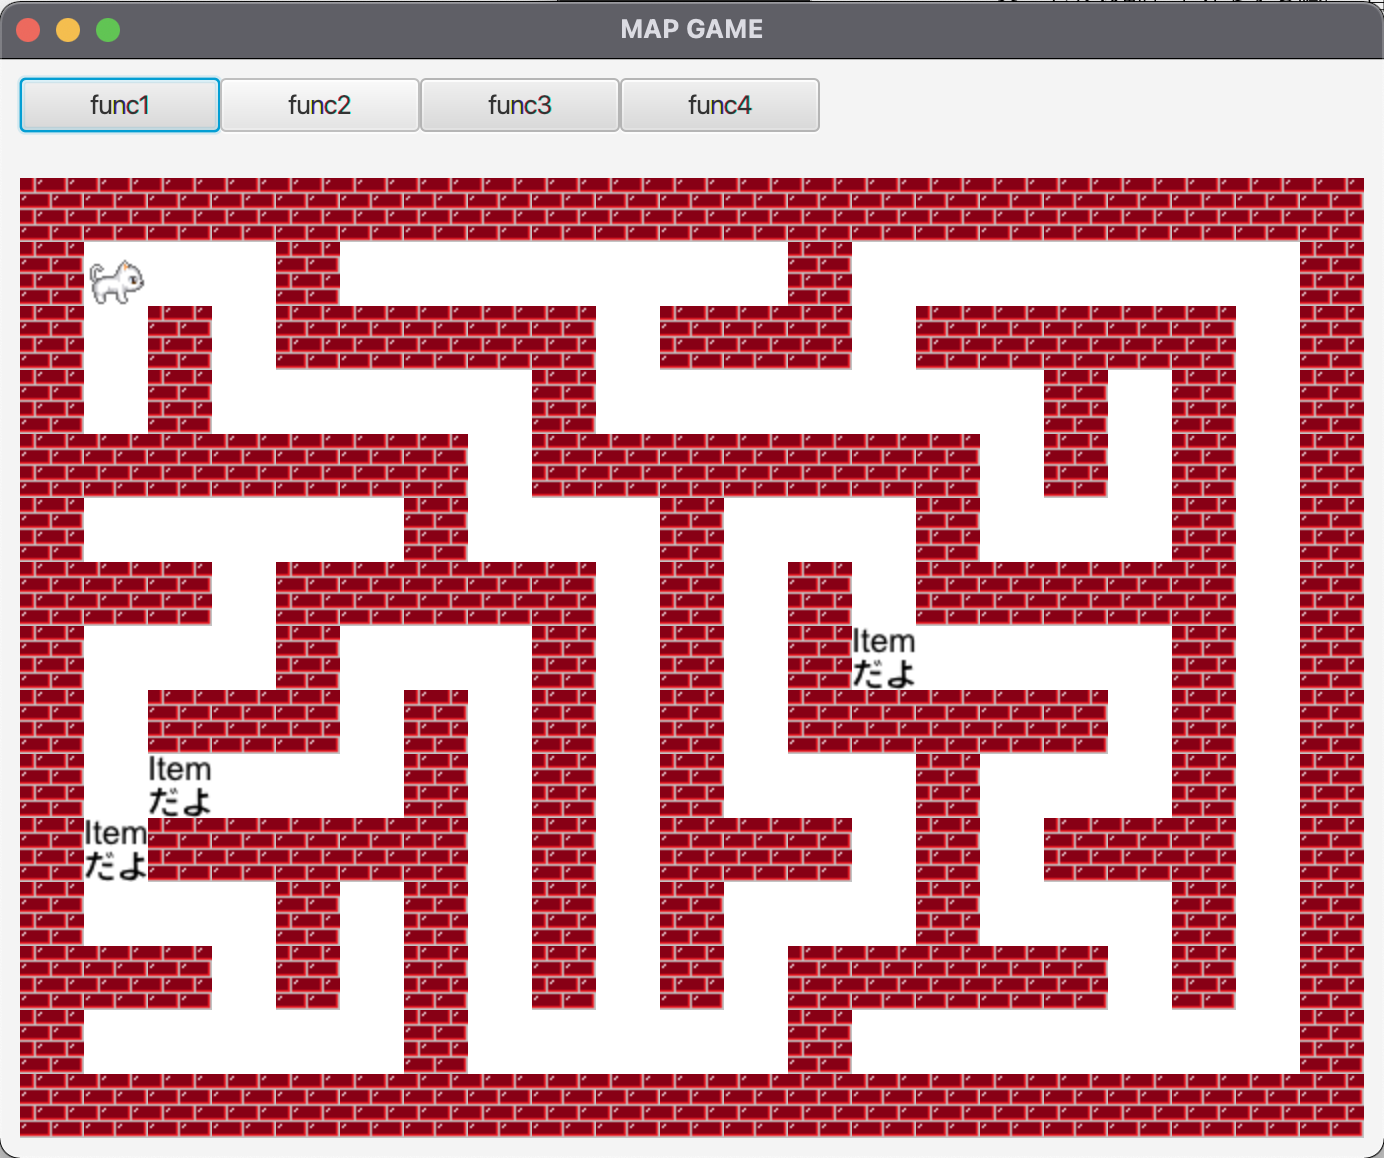
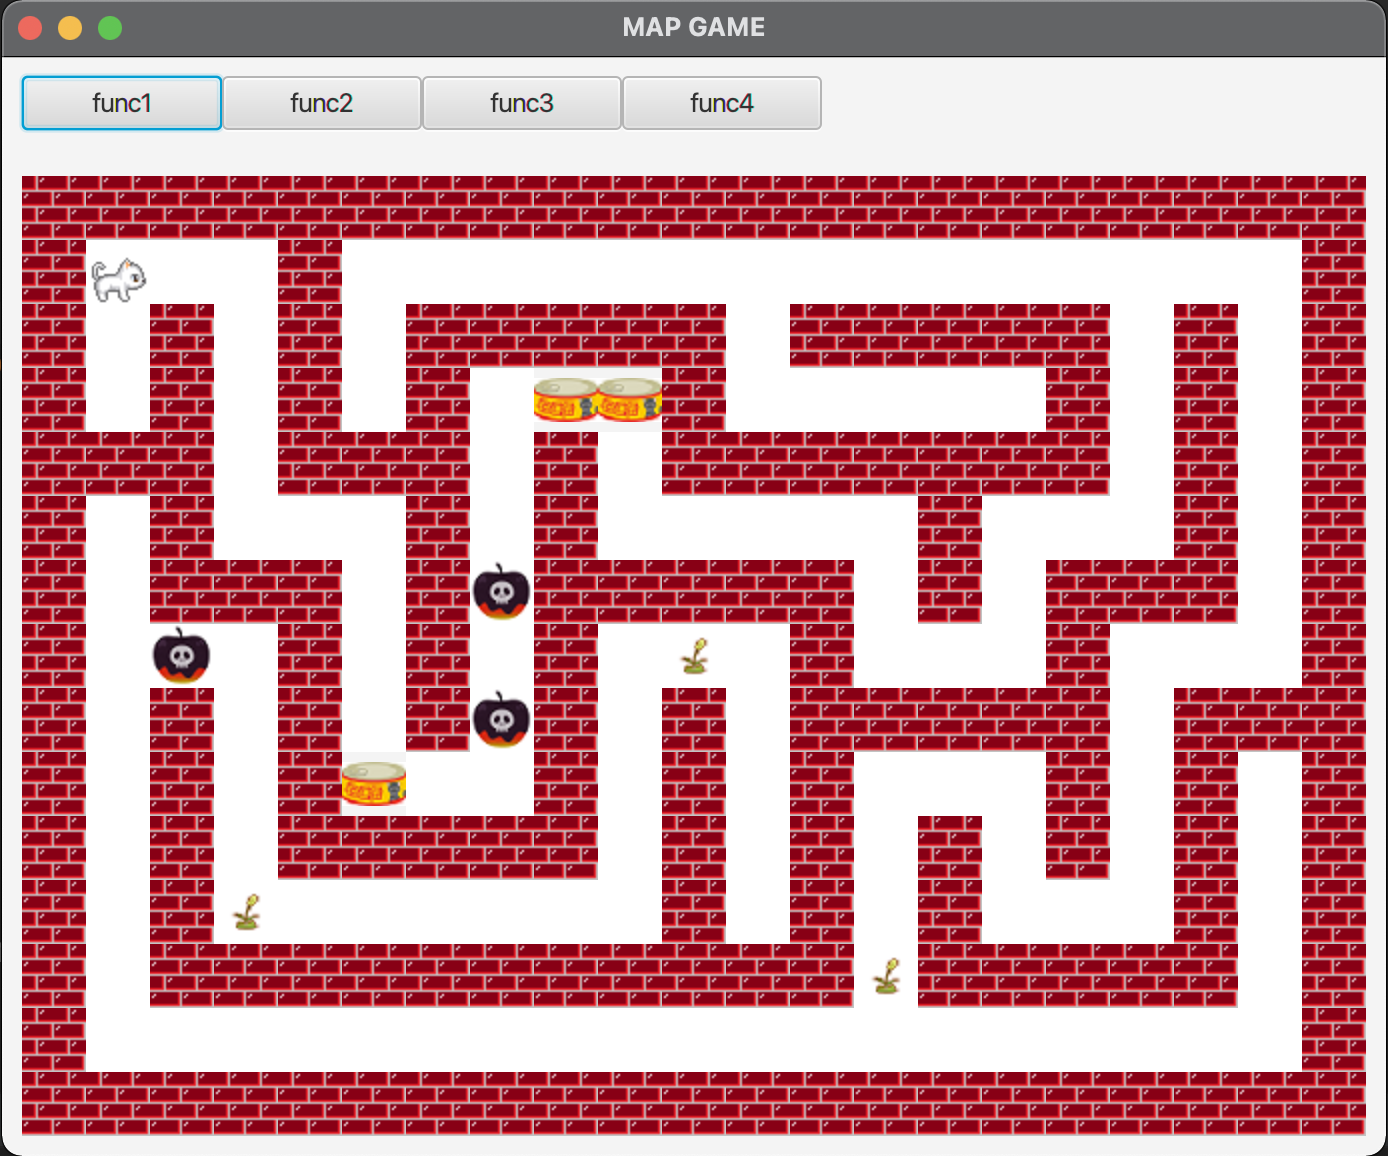
First submission (required feature 3)

diff --git a/src/MapData.java b/src/MapData.java
@@ -13,6 +13,7 @@ public class MapData {
     public static final int TYPE_ITEM_CATFOOD = 4;
 
     public static final int TYPE_GOAL = 5;
+    static int numItems;
     //---END EDIT
 
     private static final String mapImageFiles[] = {
@@ -33,8 +34,6 @@ public class MapData {
     private int width;
     private int height;
 
-    private int numItems;
-
     MapData(int x, int y){
         mapImages = new Image[mapImageFiles.length]; // This array's length should be the same with mapImageFiles's
         mapImageViews = new ImageView[y][x];
@@ -49,7 +48,8 @@ public class MapData {
         fillMap(MapData.TYPE_WALL);
         digMap(1, 3);
         //placeItem(3);
-        setItem();
+        setItem(1);
+        setGoal();
         setImageViews();
     }
 
@@ -118,7 +118,7 @@ public class MapData {
             dl[r] = tmp;
         }
 
-        System.out.println(dl[0][0] + " " + dl[0][1]);
+        //System.out.println(dl[0][0] + " " + dl[0][1]);
 
         for (int i=0; i<dl.length; i++){
             int dx = dl[i][0];
@@ -149,27 +149,28 @@ public class MapData {
 //    }
 
 
-    public void setItem() {
+    public void setItem(int num) {
         int count = 0;
-        for (int i = 2; i < 4; i++) {
-            while (count < 3) {
+        for (int i = TYPE_ITEM_APPLE; i <= TYPE_ITEM_CATFOOD; i++) {
+            while (count < num) {
                 int j = (int) (Math.random() * getHeight());
                 int z = (int) (Math.random() * getWidth());
-                if (getMap(j, z) == 0 && getMap(j, z) != 2 && getMap(j, z) != 3) {
+                if (getMap(j, z) == TYPE_SPACE && j != 1 && z != 1) {
                     setMap(j, z, i);
                     count++;
                 }
             }
             count=0;
         }
-        while (true) {
-            int j = (int) (Math.random() * getHeight());
-            int z = (int) (Math.random() * getWidth());
-            if (getMap(j, z) == TYPE_SPACE) {
-                setMap(j, z, 4);
-                break;
-            }
-        }
+        numItems = num*3;
+    }
+
+    public static void setNumItems(int numItems) {
+        MapData.numItems = numItems;
+    }
+
+    public void setGoal() {
+        setMap(19, 13, TYPE_GOAL);
     }
     //--- END EDIT
 }

diff --git a/src/MapGameController.java b/src/MapGameController.java
@@ -120,27 +120,35 @@ public class MapGameController implements Initializable {
     //--- BEGIN EDIT
     // item collection & goal logic
     void tileCheck(int x, int y) {
+        //System.out.println(mapData.getNumItems());
 
         switch(mapData.getMap(x, y)) {
             case MapData.TYPE_GOAL:
                 // Action when goal is reached
                 printAction("GOAL REACHED");
-                init();
-            break;
+                if(mapData.getNumItems() == 0) {
+                    init();
+                }
+                return;
+            //break;
             case MapData.TYPE_ITEM_APPLE:
                 // Action when apple is collected
                 printAction("APPLE COLLECTED");
+                mapData.setNumItems(mapData.getNumItems()-1);
             break;
             case MapData.TYPE_ITEM_CATFOOD:
                 // Action when catfood is collected
                 printAction("CATFOOD COLLECTED");
+                mapData.setNumItems(mapData.getNumItems()-1);
             break;
             case MapData.TYPE_ITEM_CATPLAY:
                 // Action when catplay is collected
                 printAction("CATPLAY COLLECTED");
+                mapData.setNumItems(mapData.getNumItems()-1);
             break;
         }
 
+        // refresh the map after collecting item (will remove goal)
         mapData.setMap(x, y, MapData.TYPE_SPACE);
         refreshMap(mapData);
         drawMap(chara, mapData);

diff --git a/src/MoveChara.java b/src/MoveChara.java
@@ -63,7 +63,6 @@ public class MoveChara {
     public boolean isMovable(int dx, int dy){
         if (mapData.getMap(posX+dx, posY+dy) == MapData.TYPE_WALL){
             return false;
-
         }
         // In case another check is needed
         //if (mapData.getMap(posX+dx, posY+dy) == MapData.TYPE_SPACE)

diff --git a/changes.md b/changes.md
@@ -42,6 +42,7 @@ The size of `mapImages` and the limit for the loop was also changed to support b
 
 # MoveChara.java
 # MapGameController.java
+## init()
 ```java
 @Override
 public void initialize(URL url, ResourceBundle rb) {
@@ -62,5 +63,21 @@ public void init() {
 }
 ```
 
-Since we have to use for the 2 arguments in `initialize()`, we can make an independent
+Since we have no use for the 2 arguments in `initialize()`, we can make an independent
 function out of the code inside `initialize()` so we can use the function for screen clearing.
+
+## refreshMap()
+```java
+void refreshMap(MapData mapData) {
+    for(int y=0; y<mapData.getHeight(); y++){
+        for(int x=0; x<mapData.getWidth(); x++){
+            int index = y*mapData.getWidth() + x;
+            mapImageViews[index] = mapData.getImageView(x,y);
+        }
+    }
+    mapData.setImageViews();
+}
+```
+
+To make life easier when refreshing the map (after items are collected, etc.)
+the logic for refreshing map can be implemented into a function.

diff --git a/必須機能3.md b/必須機能3.md
@@ -1,0 +1,15 @@
+# 必須機能3
+
+---
+実装担当者：70910702 ジットパンヨーヨツ タッソン （ヨック）
+
+## 内容
+クリア後新マップの生成  
+仕様：ゲームクリアしたら，前回とはまったく異なる新しいマップが自動的に作られて，次のゲームができるようにしてほしい．
+
+## 検討
+この機能を完成することを優先のため、
+各アイテムは加点アイテムか原点アイテムかを問わずにアイテムを揃ってゴールに着けばゲームクリアです。
+
+リセット機能をテストするのためこのプログラムの`func1`ボタンはリセットとします。  
+ゴールの位置もテストのためいつも変えずにマップの右下に設定しています。

diff --git a/README.md b/README.md
@@ -2,14 +2,17 @@
 
 ![main-screen](img/main-screen.png)
 
+## Remarks
+To run this project, import to IntelliJ IDE (Running manually is also fine as well)
+
 ## Progress
 - [ ] Required Feature 1: Item
 - [ ] Required Feature 2: Goal
 - [ ] Required Feature 3: Map Clear
 - [ ] Required Feature 4
 - [ ] Required Feature 5
-- [ ] Extra Feature 1
-- [ ] Extra Feature 2
+- [ ] Extra Feature 1: Settings Menu
+- [ ] Extra Feature 2:
 
 ## Changes & Features
 - Changes are documented in [changes.md](changes.md)
